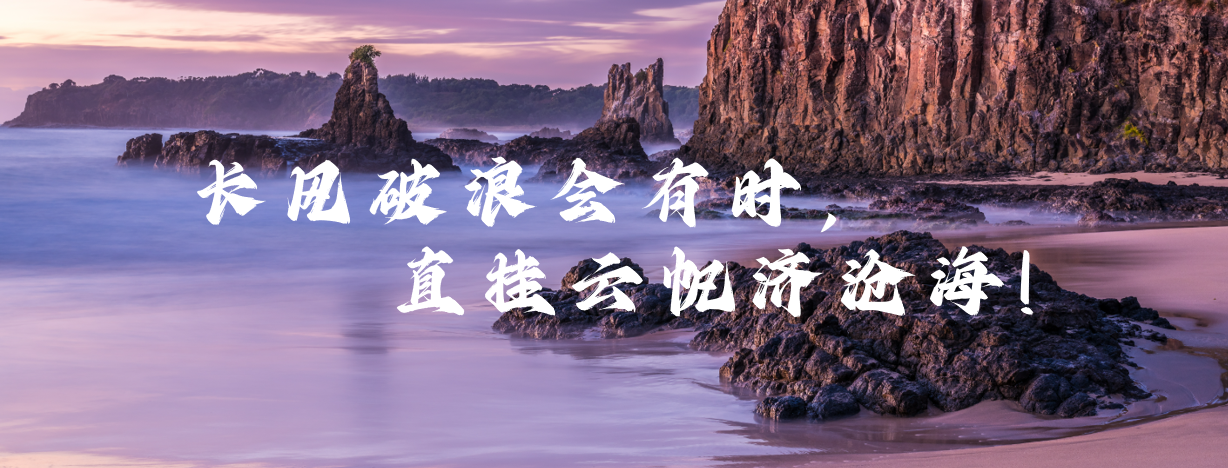
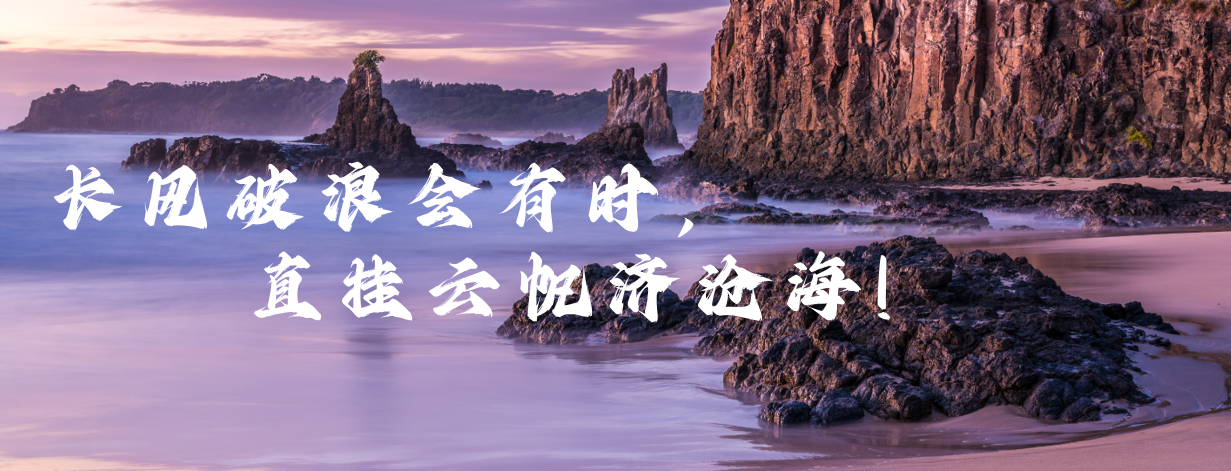
1

diff --git a/static/css/main.css b/static/css/main.css
@@ -26,7 +26,7 @@
     padding: 10rem 0;
     background-position: center;
     background-size: cover;
-    height: 40rem;
+    height: 25rem;
 }
 
 .top-section h2 {
